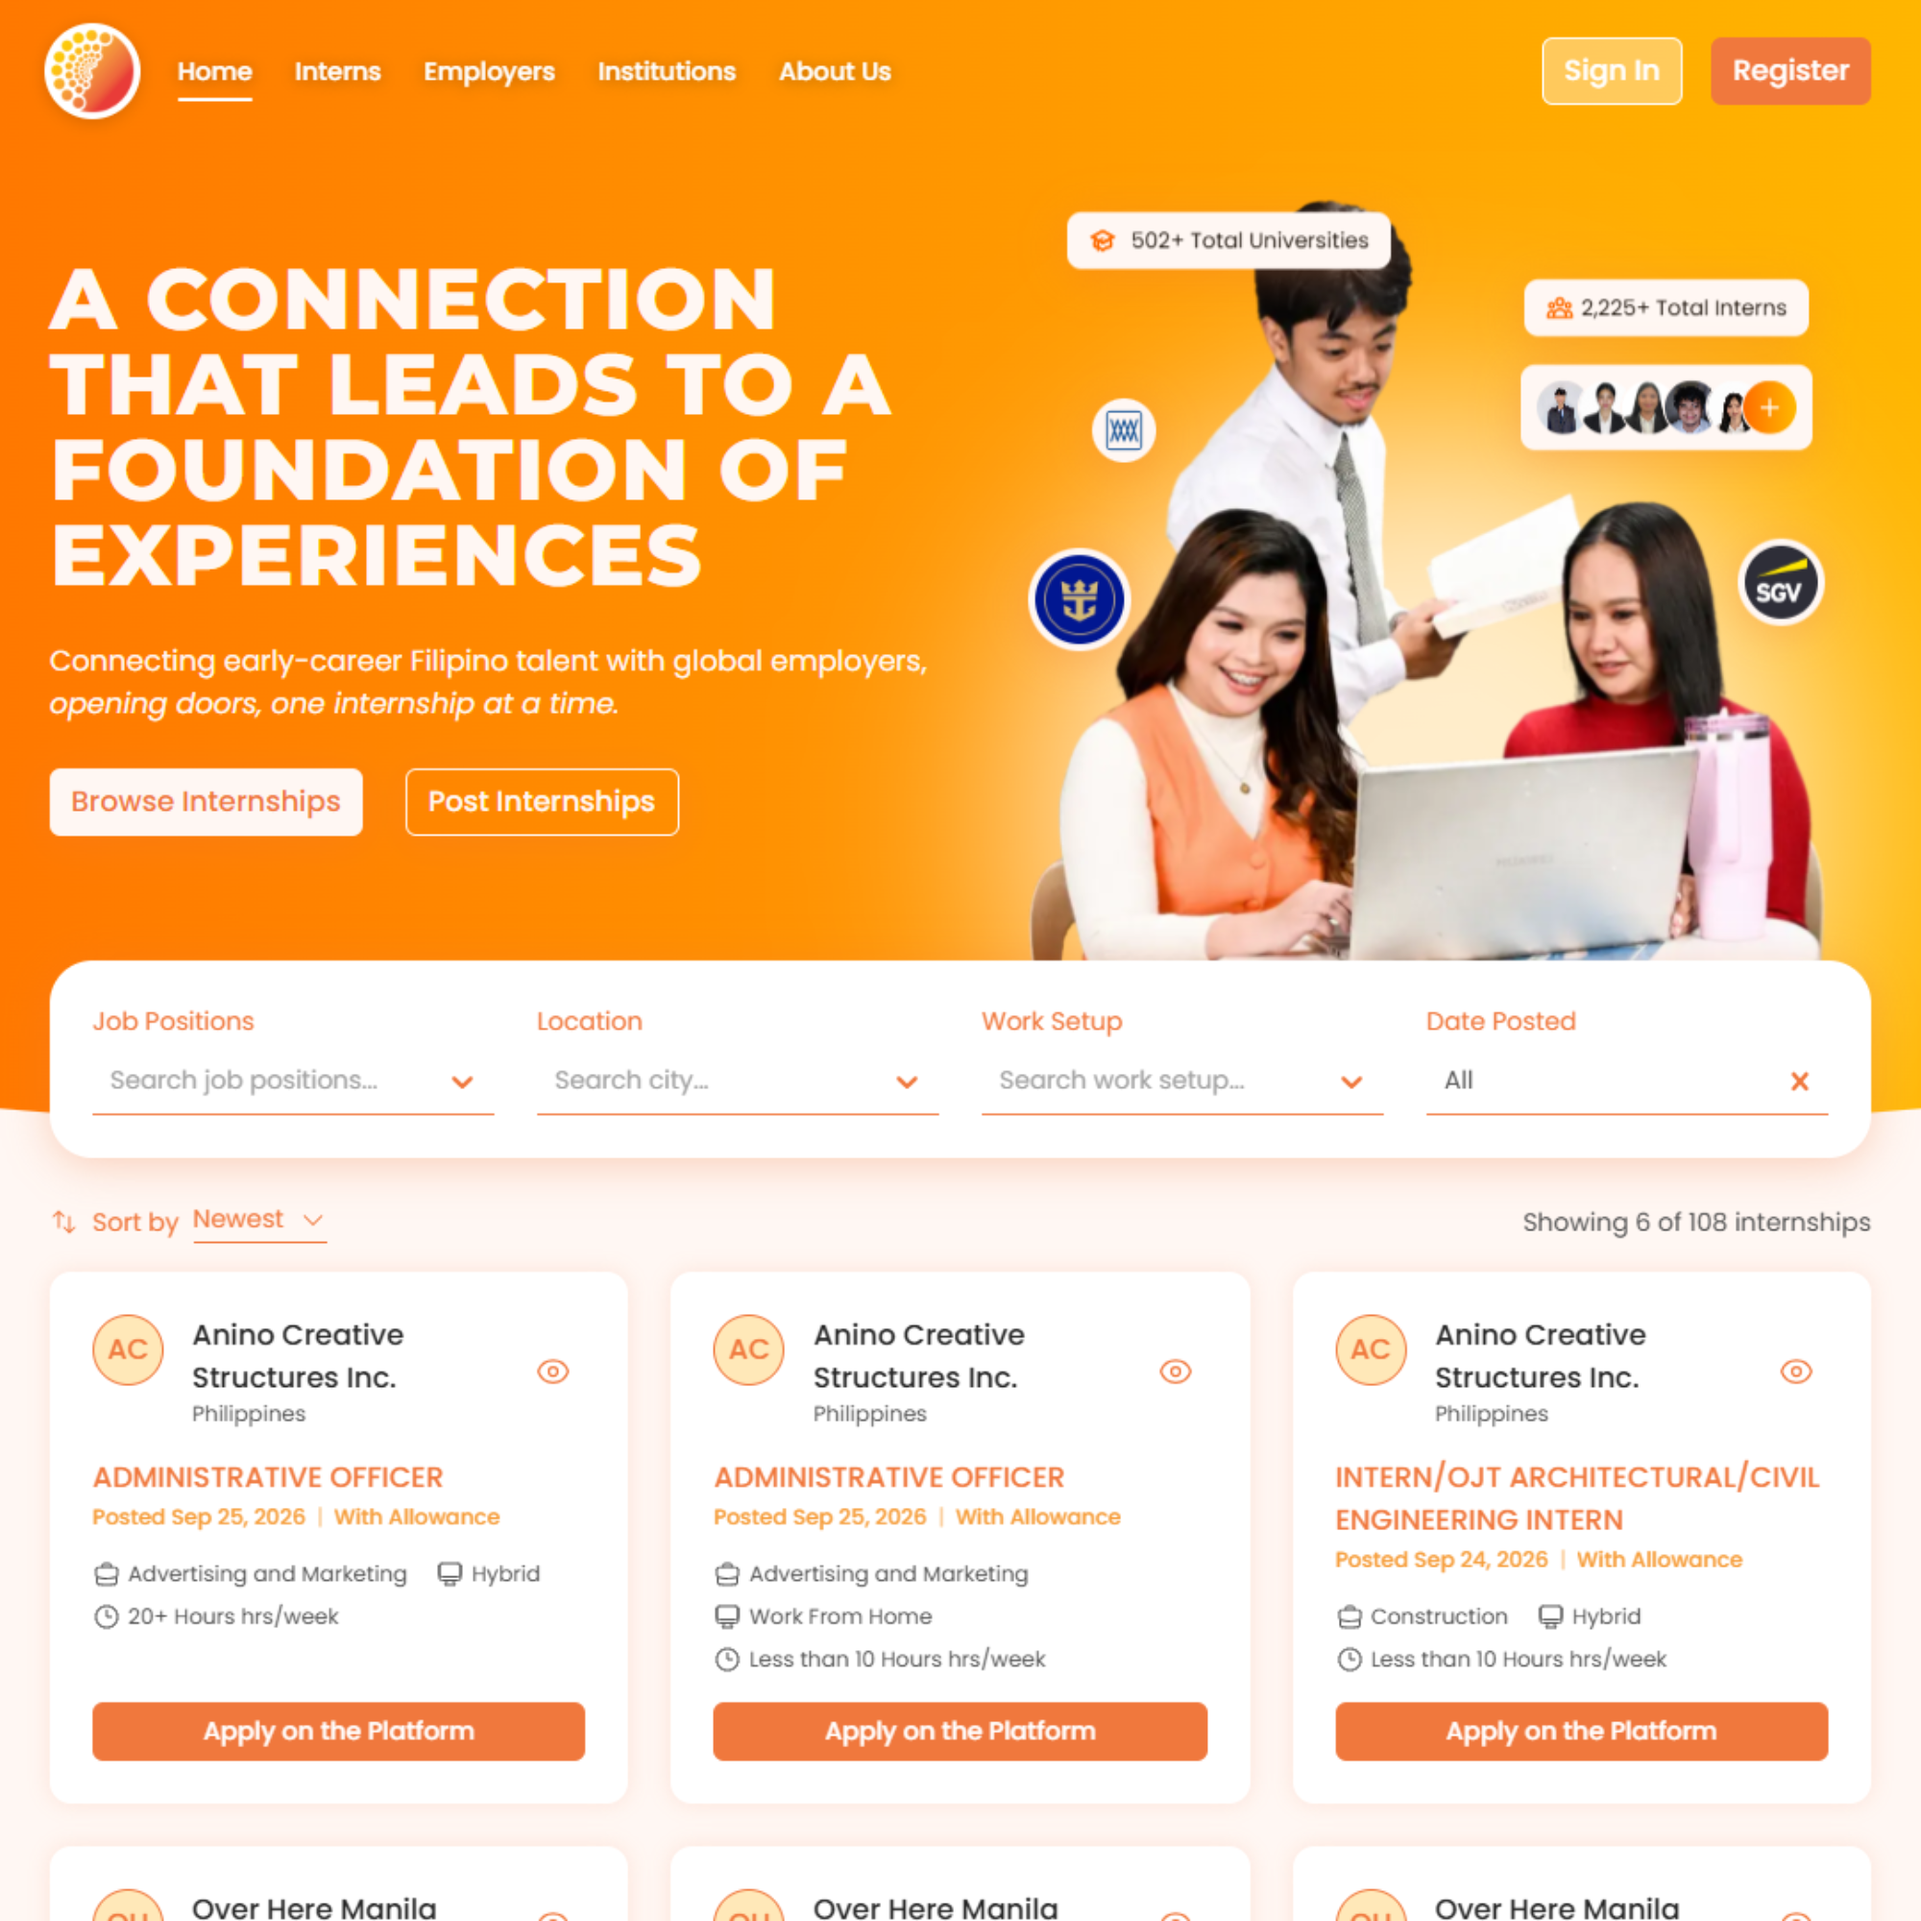
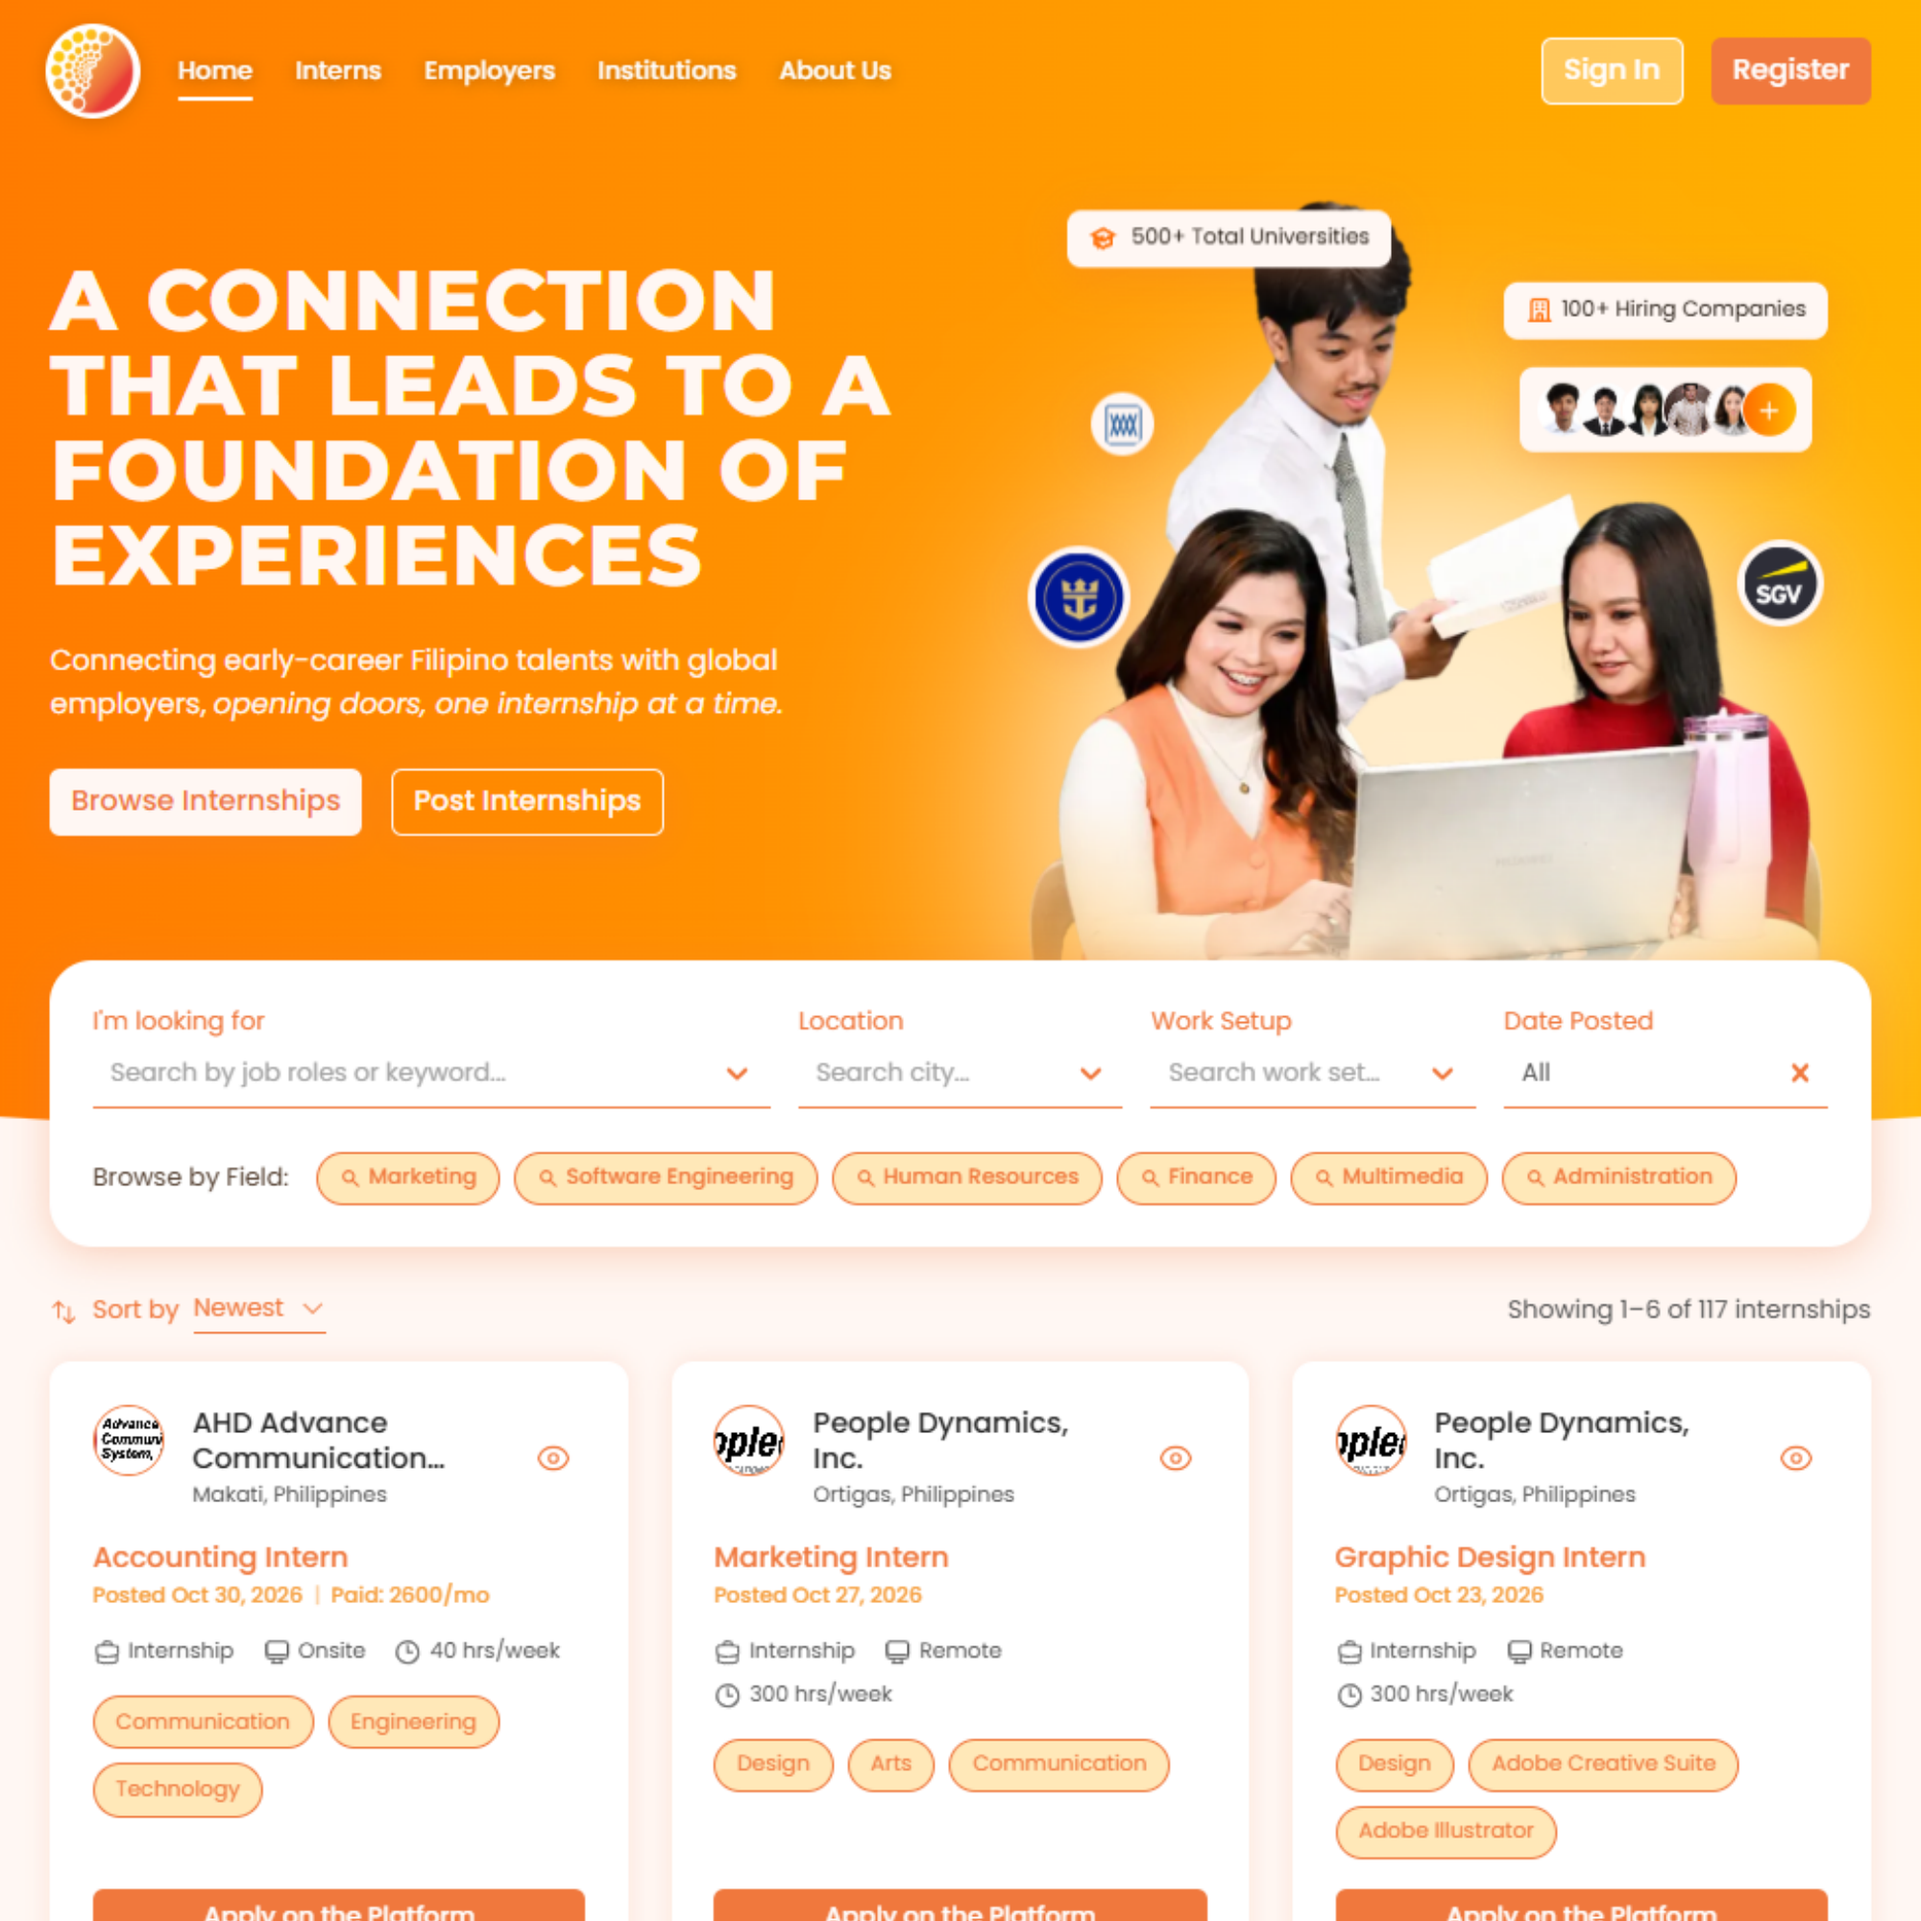
Feature Clawholics on Home and Projects, and reorder the project grid
Clawholics takes ROOTÉ's place in Home's Recent and Featured Projects (cover and thumbnail images), gets the Claude Code tag, and a 1600px WebP hero on its page. The Projects grid is now OJT Connect, Clawholics, Coop Feud, WeCare, ROOTÉ, with HRMO Payroll before SUBAY. New and changed images have thumbnails; the OJT Connect cover is updated.

diff --git a/src/data/projects.ts b/src/data/projects.ts
@@ -29,15 +29,31 @@ export const projects: Project[] = [
     category: "frontend",
   },
   {
-    title: "ROOTÉ",
+    title: "Clawholics",
     description:
-      "ROOTÉ.US is a web app for people with hair loss: a free hair diagnosis, a personal report, a treatment plan with checkout, and a daily program app, in six languages including right-to-left. I designed the journey and the product packaging (bottles, label artwork, and carton) and built the front end as a UX/UI designer and front-end developer.",
-    image: "/assets/images/projects/roote/cover.png",
-    featuredImage: "/assets/images/projects/roote/thumbnail.png",
-    featuredLink: "https://roote.us/",
-    summary: "Hair loss diagnosis and treatment app for patients",
-    tags: ["Figma", "React", "Claude Code", "UX/UI Design"],
-    url: "/projects/roote",
+      "Clawholics is a booking and management web app for a nail salon: clients book and pay a downpayment online, earn loyalty stamps by QR scan, and track visits in a client app, while staff run bookings, sales, and the site's content from an admin area. I designed the experience and built the front end as a UX designer and front-end developer.",
+    image: "/assets/images/projects/clawholics/cover.png",
+    featuredImage: "/assets/images/projects/clawholics/thumbnail.png",
+    summary: "Booking and loyalty web app for a nail salon",
+    tags: [
+      "Next.js",
+      "React",
+      "Claude Code",
+      "TypeScript",
+      "Tailwind CSS",
+      "UX/UI Design",
+    ],
+    url: "/projects/clawholics",
+    category: "frontend",
+  },
+  {
+    title: "Coop Feud",
+    description:
+      "Coop Feud is an offline survey-game system for a live event: one host runs the controls while the audience watches a read-only board on a second screen, with a bracket tournament, a name wheel, a Fast Money round, timers, and sound cues. I designed the experience and built the front end as a UX designer and front-end developer; it was used at the Coop Month event on October 23, 2026.",
+    image: "/assets/images/projects/coopfeud/board-welcome.webp",
+    summary: "Offline survey game system for a live event",
+    tags: ["React", "TypeScript", "Tailwind CSS", "Tauri", "UX/UI Design"],
+    url: "/projects/coopfeud",
     category: "frontend",
   },
   {
@@ -50,6 +66,18 @@ export const projects: Project[] = [
     summary: "Health platform for adults in Germany and Austria",
     tags: ["Figma", "React", "Claude Code", "UX/UI Design"],
     url: "/projects/wecare",
+    category: "frontend",
+  },
+  {
+    title: "ROOTÉ",
+    description:
+      "ROOTÉ.US is a web app for people with hair loss: a free hair diagnosis, a personal report, a treatment plan with checkout, and a daily program app, in six languages including right-to-left. I designed the journey and the product packaging (bottles, label artwork, and carton) and built the front end as a UX/UI designer and front-end developer.",
+    image: "/assets/images/projects/roote/cover.png",
+    featuredImage: "/assets/images/projects/roote/thumbnail.png",
+    featuredLink: "https://roote.us/",
+    summary: "Hair loss diagnosis and treatment app for patients",
+    tags: ["Figma", "React", "Claude Code", "UX/UI Design"],
+    url: "/projects/roote",
     category: "frontend",
   },
   {
@@ -93,23 +121,13 @@ export const projects: Project[] = [
     category: "frontend",
   },
   {
-    title: "Clawholics",
+    title: "HRMO Payroll System",
     description:
-      "Clawholics is a booking and management web app for a nail salon: clients book and pay a downpayment online, earn loyalty stamps by QR scan, and track visits in a client app, while staff run bookings, sales, and the site's content from an admin area. I designed the experience and built the front end as a UX designer and front-end developer.",
-    image: "/assets/images/projects/clawholics/home.webp",
-    summary: "Booking and loyalty web app for a nail salon",
-    tags: ["Next.js", "React", "TypeScript", "Tailwind CSS", "UX/UI Design"],
-    url: "/projects/clawholics",
-    category: "frontend",
-  },
-  {
-    title: "Coop Feud",
-    description:
-      "Coop Feud is an offline survey-game system for a live event: one host runs the controls while the audience watches a read-only board on a second screen, with a bracket tournament, a name wheel, a Fast Money round, timers, and sound cues. I designed the experience and built the front end as a UX designer and front-end developer; it was used at the Coop Month event on October 23, 2026.",
-    image: "/assets/images/projects/coopfeud/board-welcome.webp",
-    summary: "Offline survey game system for a live event",
-    tags: ["React", "TypeScript", "Tailwind CSS", "Tauri", "UX/UI Design"],
-    url: "/projects/coopfeud",
+      "An automated payroll management system for LGU Jasaan’s HRMO, designed to streamline payroll processing by integrating directly with biometric data, reducing manual workload.",
+    image: "/assets/images/projects/payroll/payroll1.png",
+    summary: "Payroll system for a local government HR office",
+    tags: ["Next.js", "TypeScript", "TailwindCSS", "Figma", "Canva"],
+    url: "/projects/payroll",
     category: "frontend",
   },
   {
@@ -120,16 +138,6 @@ export const projects: Project[] = [
     summary: "Camera system that tracks customers in retail stores",
     tags: ["Next.js", "TypeScript", "TailwindCSS"],
     url: "/projects/subay",
-    category: "frontend",
-  },
-  {
-    title: "HRMO Payroll System",
-    description:
-      "An automated payroll management system for LGU Jasaan’s HRMO, designed to streamline payroll processing by integrating directly with biometric data, reducing manual workload.",
-    image: "/assets/images/projects/payroll/payroll1.png",
-    summary: "Payroll system for a local government HR office",
-    tags: ["Next.js", "TypeScript", "TailwindCSS", "Figma", "Canva"],
-    url: "/projects/payroll",
     category: "frontend",
   },
   {

diff --git a/src/data/home.ts b/src/data/home.ts
@@ -23,25 +23,39 @@ export const workHighlights = [
   },
 ];
 
-const HOME_PROJECT_COUNT = 3;
+// The Recent Projects rows: three chosen projects with their first three tags as the detail line.
+const RECENT_PROJECTS = [
+  "/projects/ojtconnect",
+  "/projects/clawholics",
+  "/projects/wecare",
+];
 
-// The Recent Projects rows: the newest projects with their first three tags as the detail line.
-export const recentProjects = projects
-  .slice(0, HOME_PROJECT_COUNT)
-  .map(({ url, image, title, tags }) => ({
-    url,
-    image,
-    title,
-    detail: tags.slice(0, 3).join(" · "),
-  }));
+export const recentProjects = RECENT_PROJECTS.flatMap((url) => {
+  const project = projects.find((p) => p.url === url);
+  return project
+    ? [
+        {
+          url,
+          image: project.image,
+          title: project.title,
+          detail: project.tags.slice(0, 3).join(" · "),
+        },
+      ]
+    : [];
+});
 
-// The Featured Projects photo cards.
-export const featuredProjects = projects
-  .slice(0, HOME_PROJECT_COUNT)
-  .map(({ url, image, featuredImage, featuredLink, title }) => ({
-    url,
-    image: featuredImage ?? image,
-    title,
-    external: featuredLink !== undefined,
-    href: featuredLink ?? url,
-  }));
+// The Featured Projects photo cards: the same three projects as Recent Projects.
+export const featuredProjects = recentProjects.flatMap(({ url }) => {
+  const project = projects.find((p) => p.url === url);
+  return project
+    ? [
+        {
+          url,
+          image: project.featuredImage ?? project.image,
+          title: project.title,
+          external: project.featuredLink !== undefined,
+          href: project.featuredLink ?? url,
+        },
+      ]
+    : [];
+});

diff --git a/src/projects/clawholics.tsx b/src/projects/clawholics.tsx
@@ -226,9 +226,9 @@ const Clawholics = () => (
     <div className="space-y-15 pt-6">
       <Section id="overview" level={2} title="Project Overview" hideTitle>
         <img
-          src={`${IMAGES}/home.webp`}
-          width={1568}
-          height={700}
+          src={`${IMAGES}/clawholics.webp`}
+          width={1600}
+          height={900}
           alt="Clawholics home page on a desktop: the navigation bar with a Book now button, the headline Clawholics, a short line about gel extensions and manicures in Cagayan de Oro, and a close-up photo of painted nails"
           className="w-full"
         />
